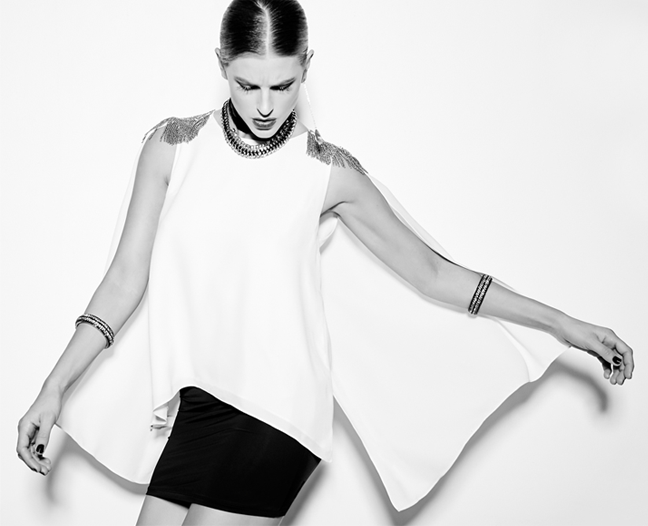
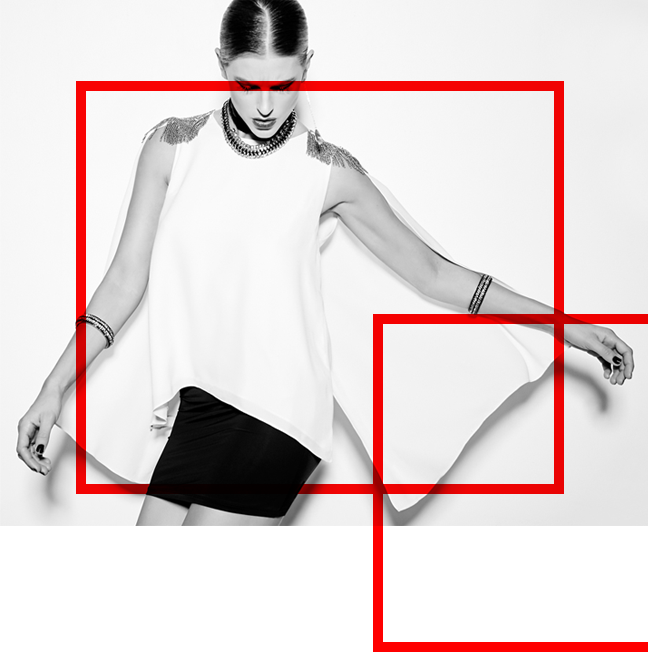
patch update

diff --git a/public/index.html b/public/index.html
@@ -1,16 +1,17 @@
 <!DOCTYPE html>
 <html lang="en">
-  <head>
-    <meta charset="utf-8" />
-    <link rel="shortcut icon" href="%PUBLIC_URL%/favicon.ico" />
-    <meta name="viewport" content="width=device-width, initial-scale=1" />
-    <meta name="theme-color" content="#000000" />
-    <!--
+
+<head>
+  <meta charset="utf-8" />
+  <link rel="shortcut icon" href="%PUBLIC_URL%/favicon.ico" />
+  <meta name="viewport" content="width=device-width, initial-scale=1" />
+  <meta name="theme-color" content="#000000" />
+  <!--
       manifest.json provides metadata used when your web app is installed on a
       user's mobile device or desktop. See https://developers.google.com/web/fundamentals/web-app-manifest/
     -->
-    <link rel="manifest" href="%PUBLIC_URL%/manifest.json" />
-    <!--
+  <link rel="manifest" href="%PUBLIC_URL%/manifest.json" />
+  <!--
       Notice the use of %PUBLIC_URL% in the tags above.
       It will be replaced with the URL of the `public` folder during the build.
       Only files inside the `public` folder can be referenced from the HTML.
@@ -19,12 +20,14 @@
       work correctly both with client-side routing and a non-root public URL.
       Learn how to configure a non-root public URL by running `npm run build`.
     -->
-    <title>React App</title>
-  </head>
-  <body>
-    <noscript>You need to enable JavaScript to run this app.</noscript>
-    <div id="root"></div>
-    <!--
+  <title>React App</title>
+</head>
+
+<body>
+  <noscript>You need to enable JavaScript to run this app.</noscript>
+  <input id="blur-hack" type="text" style="position: absolute; opacity: 0;">
+  <div id="root"></div>
+  <!--
       This HTML file is a template.
       If you open it directly in the browser, you will see an empty page.
 
@@ -34,5 +37,6 @@
       To begin the development, run `npm start` or `yarn start`.
       To create a production bundle, use `npm run build` or `yarn build`.
     -->
-  </body>
+</body>
+
 </html>

diff --git a/src/components/SubscriptionSmall/SubscriptionSmall.tsx b/src/components/SubscriptionSmall/SubscriptionSmall.tsx
@@ -9,15 +9,48 @@ import TextInput from '../TextInput';
 const SubscriptionSmall = () => {
   const { t } = useTranslation();
 
+  let emptyInputReport = false;
+
   const onSend = (event: React.FormEvent<HTMLFormElement>) => {
-    event.persist();
-    console.log(event);
+    const inputElem = event.currentTarget.querySelector(
+      ".email"
+    ) as HTMLInputElement | null;
+    if (!inputElem) return;
+
+    if (inputElem.value === "") {
+      inputElem.setCustomValidity("Input is empty");
+      inputElem.reportValidity();
+
+      emptyInputReport = true;
+    } else emptyInputReport = false;
+  };
+
+  const onBlur = (event: React.FocusEvent<HTMLInputElement>) => {
+    event.currentTarget.reportValidity();
+  };
+
+  const onKeyDown = (event: React.KeyboardEvent<HTMLInputElement>) => {
+    console.log(event.key);
+    if (event.key === "Escape") event.currentTarget.checkValidity();
+
+    if (emptyInputReport) {
+      event.currentTarget.setCustomValidity("");
+      event.currentTarget.reportValidity();
+      emptyInputReport = false;
+    }
   };
 
   return (
     <form className="subscriptionSmall" onSubmit={onSend} action="#">
       <div className="label">{t("subscriptionSmall.label")}</div>
-      <TextInput placeholder="example@fashionbar.online" className="email" />
+      <TextInput
+        placeholder="example@fashionbar.online"
+        className="email"
+        type="email"
+        onBlur={onBlur}
+        onKeyDown={onKeyDown}
+        // required
+      />
       <Button className="send" type="submit">
         {t("subscriptionSmall.save")}
       </Button>

diff --git a/src/components/SubscriptionBig/SubscriptionBig.tsx b/src/components/SubscriptionBig/SubscriptionBig.tsx
@@ -31,6 +31,11 @@ const SubscriptionBig = () => {
 
   return (
     <div className="subscriptionBig">
+      <img
+        src="/assets/images/rectFullRedThin.png"
+        className="decorationImage"
+        alt="justRect"
+      />
       <div className="subTitle">
         <div className="main">{t("subscriptionBig.title.main")}</div>
         <div className="secondary">{t("subscriptionBig.title.secondary")}</div>

diff --git a/src/components/SubscriptionBig/SubscriptionBig.scss b/src/components/SubscriptionBig/SubscriptionBig.scss
@@ -9,6 +9,15 @@
   padding: $subscriptionBig-padding;
 
   background: white;
+  position: relative;
+
+  .decorationImage {
+    position: absolute;
+
+    right: -73px;
+    top: -113px;
+    z-index: -1;
+  }
 
   span + span {
     margin-left: $span-gap;

diff --git a/src/components/TextInput/TextInput.scss b/src/components/TextInput/TextInput.scss
@@ -18,4 +18,12 @@ input {
   &:focus::placeholder {
     color: transparent;
   }
+
+  // &:valid {
+  //   background: green;
+  // }
+
+  // &:invalid {
+  //   background: red;
+  // }
 }
